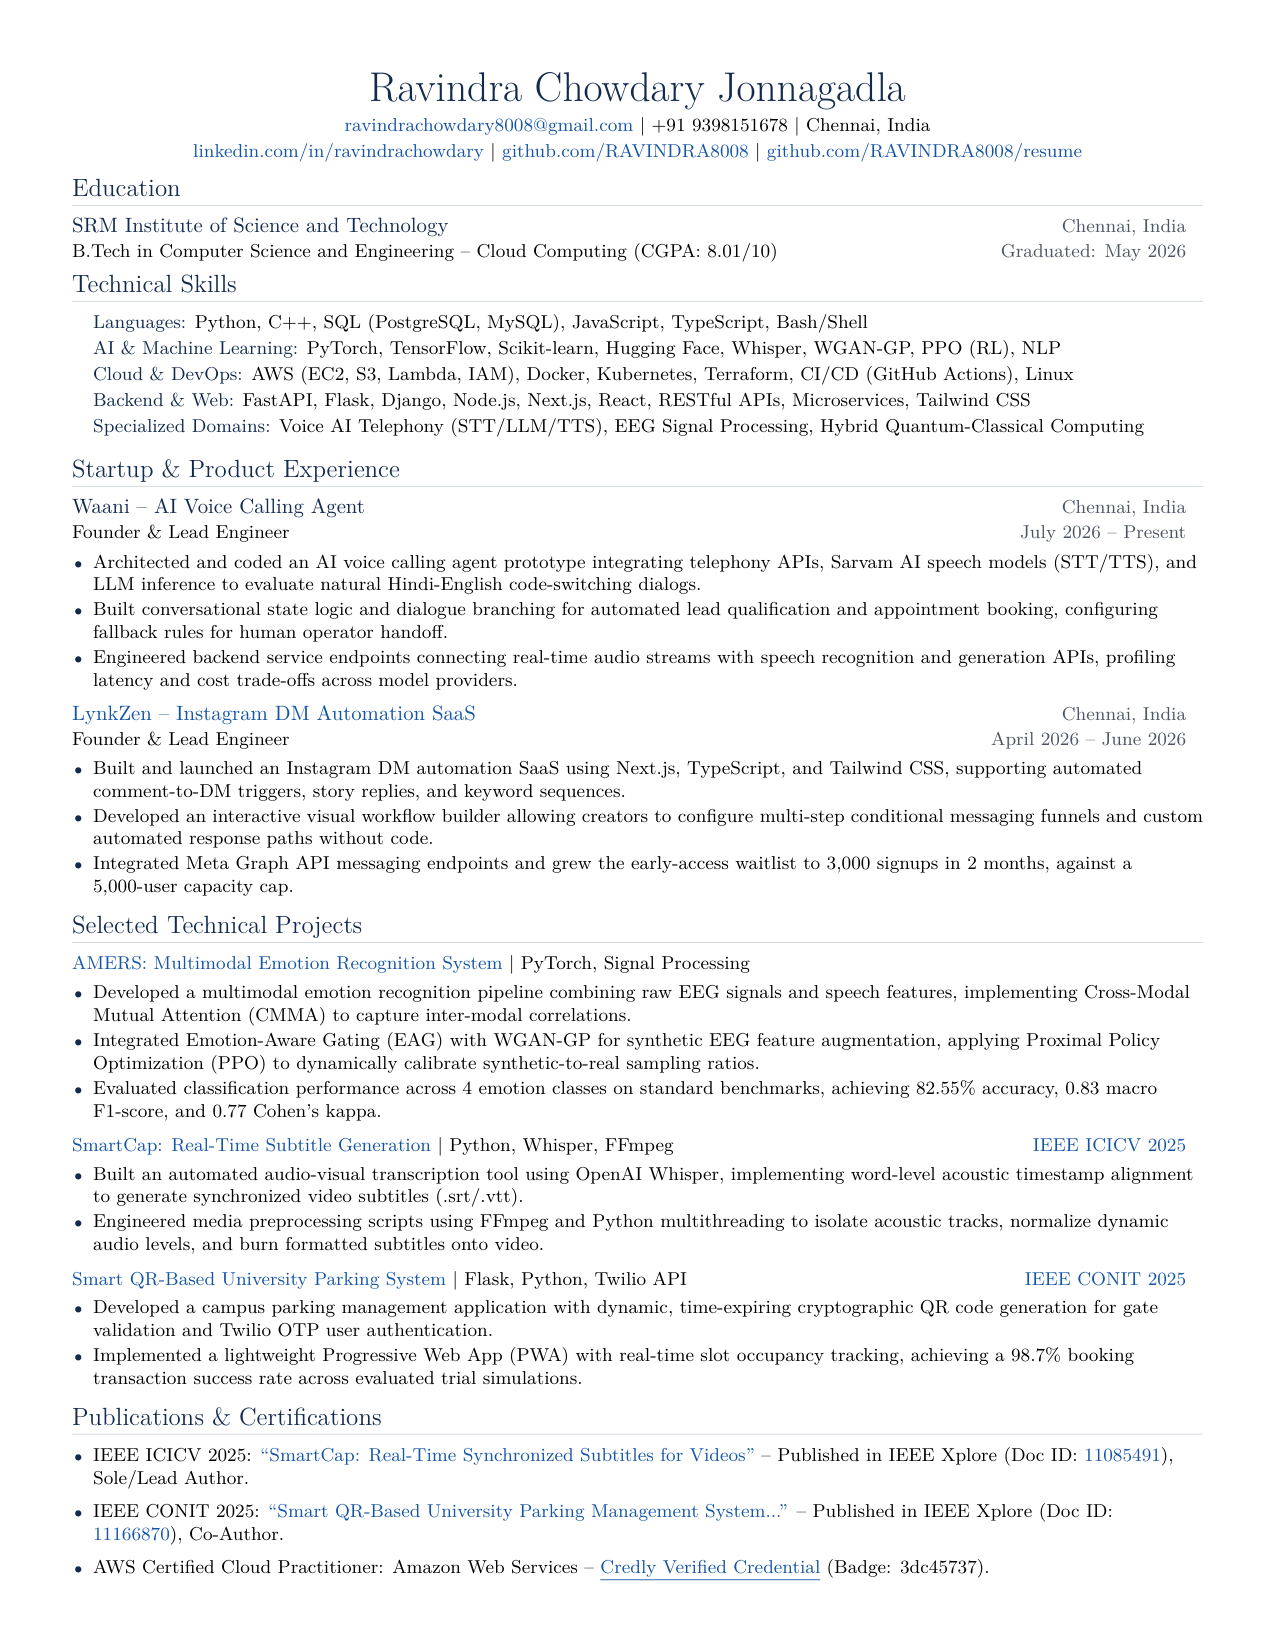
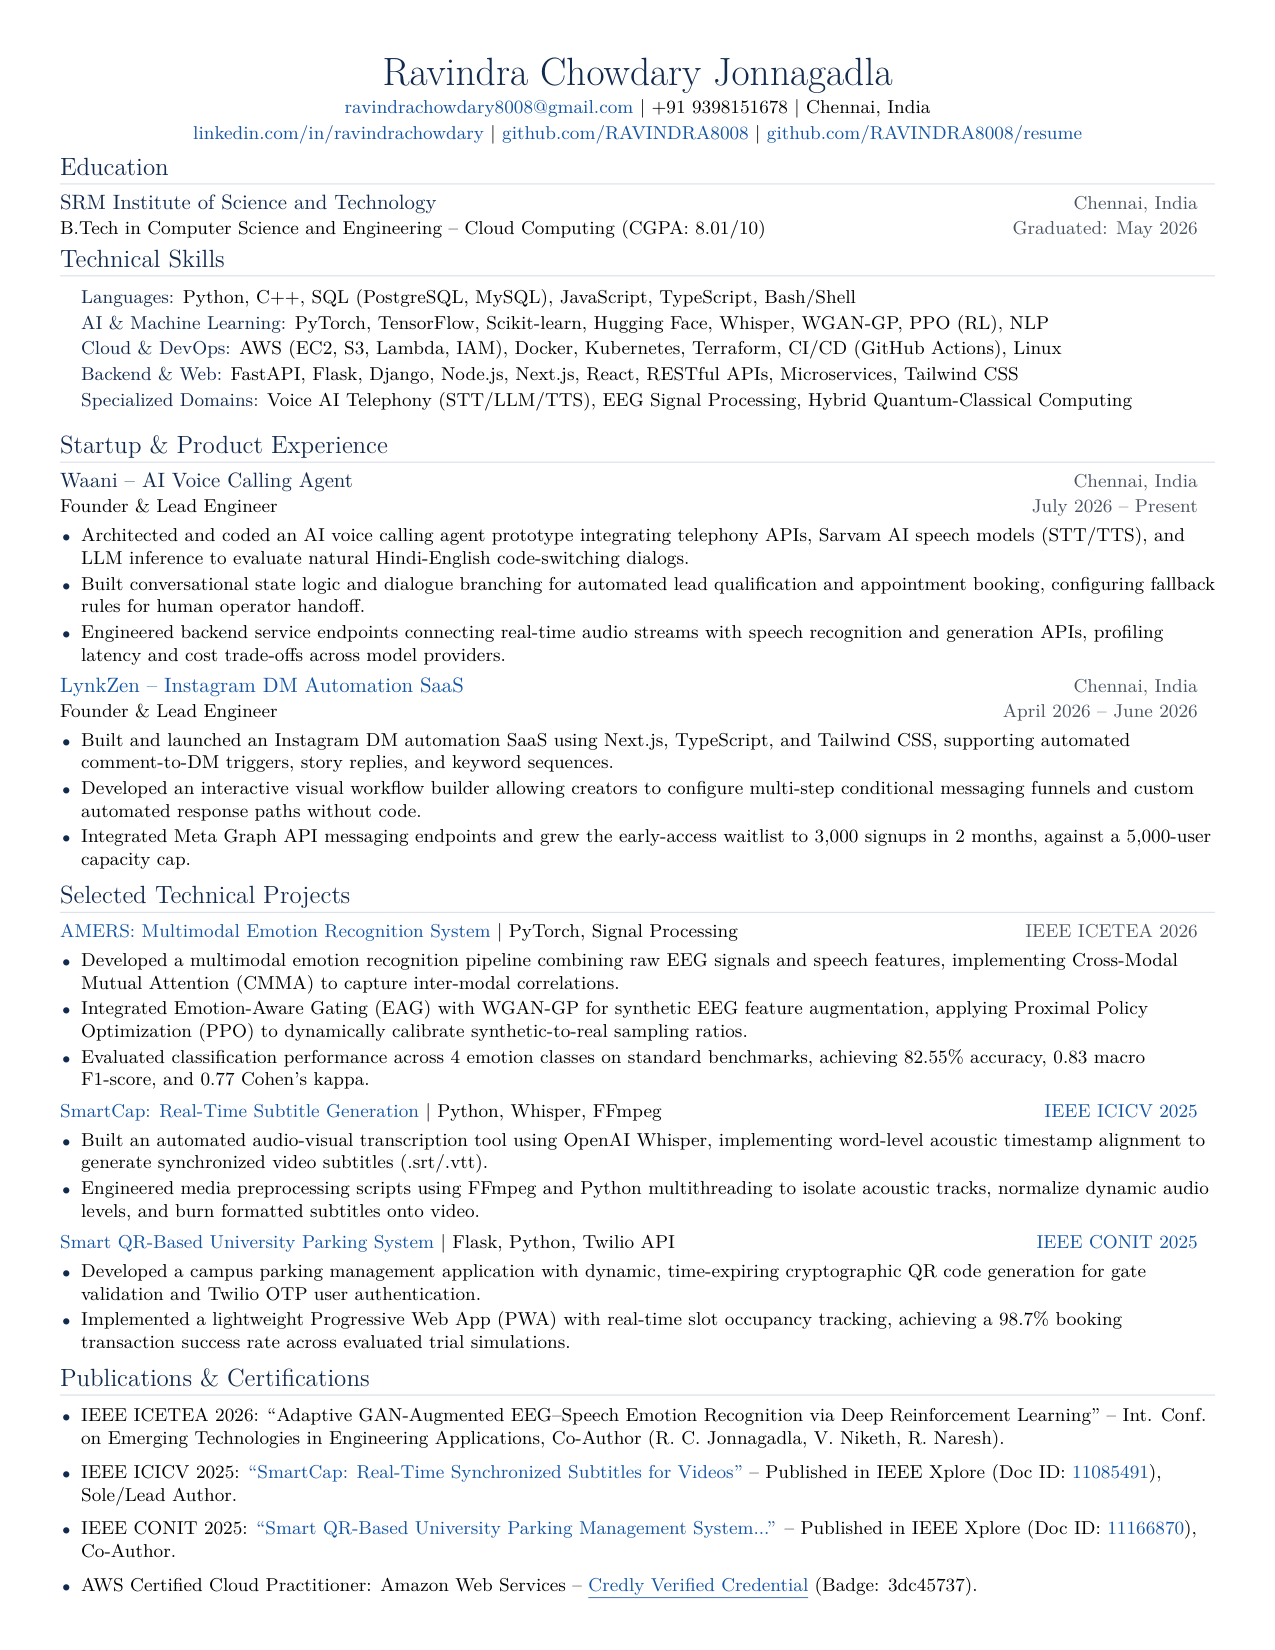
Add IEEE ICETEA 2026 publication for AMERS research

Changed region(s): [[0.0306, 0.0927, 0.9482, 0.9891], [0.1529, 0.0309, 0.8565, 0.0927], [0.7953, 0.1236, 0.9482, 0.1545]]

diff --git a/resume.tex b/resume.tex
@@ -6,7 +6,7 @@
 
 \documentclass[letterpaper,10pt]{article}
 
-\usepackage[margin=0.48in]{geometry}
+\usepackage[margin=0.40in, top=0.38in, bottom=0.36in]{geometry}
 \usepackage{titlesec}
 \usepackage{enumitem}
 \usepackage[dvipsnames]{xcolor}
@@ -41,33 +41,33 @@
 
 % Section Titles with Sleek Accents
 \titleformat{\section}{
-  \vspace{-6pt}\color{primary}\raggedright\large\bfseries
+  \vspace{-7pt}\color{primary}\raggedright\large\bfseries
 }{}{0em}{}[\color{rulecolor}\titlerule \vspace{-4pt}]
 
 % Custom commands for bulleted lists and subheadings
 \newcommand{\resumeItem}[1]{
-  \item\small{{#1 \vspace{-1.2pt}}}
+  \item\small{{#1 \vspace{-1.5pt}}}
 }
 
 \newcommand{\resumeSubheading}[4]{
-  \vspace{-1.5pt}\item
+  \vspace{-2.5pt}\item
     \begin{tabular*}{0.985\textwidth}[t]{l@{\extracolsep{\fill}}r}
       \textbf{\color{primary}#1} & \small\color{secondary}#2 \\
       \textit{\small#3} & \small\color{secondary}#4 \\
-    \end{tabular*}\vspace{-3.5pt}
+    \end{tabular*}\vspace{-4pt}
 }
 
 \newcommand{\resumeProjectHeading}[2]{
-    \vspace{-1.5pt}\item
+    \vspace{-2.5pt}\item
     \begin{tabular*}{0.985\textwidth}{l@{\extracolsep{\fill}}r}
       \small#1 & \small\color{secondary}#2 \\
-    \end{tabular*}\vspace{-3.5pt}
+    \end{tabular*}\vspace{-4pt}
 }
 
 \newcommand{\resumeSubHeadingListStart}{\begin{itemize}[leftmargin=0.0in, label={}]}
-\newcommand{\resumeSubHeadingListEnd}{\end{itemize}\vspace{-2pt}}
+\newcommand{\resumeSubHeadingListEnd}{\end{itemize}\vspace{-3pt}}
 \newcommand{\resumeItemListStart}{\begin{itemize}[leftmargin=0.14in, label={\textcolor{primary}{\scriptsize$\bullet$}}]}
-\newcommand{\resumeItemListEnd}{\end{itemize}\vspace{-2pt}}
+\newcommand{\resumeItemListEnd}{\end{itemize}\vspace{-3pt}}
 
 %-------------------------------------------
 %%%%%%  RESUME STARTS HERE  %%%%%%%%%%%%%%%%%%%%%%%%%%%%
@@ -76,7 +76,7 @@
 
 %----------HEADER----------
 \begin{center}
-    {\fontsize{20}{23}\selectfont \textbf{\color{primary}Ravindra Chowdary Jonnagadla}} \\ \vspace{3.5pt}
+    {\fontsize{19}{22}\selectfont \textbf{\color{primary}Ravindra Chowdary Jonnagadla}} \\ \vspace{2.5pt}
     \small
     \href{mailto:ravindrachowdary8008@gmail.com}{ravindrachowdary8008@gmail.com} $|$ 
     +91 9398151678 $|$ 
@@ -85,7 +85,7 @@
     \href{https://github.com/RAVINDRA8008}{github.com/RAVINDRA8008} $|$ 
     \href{https://github.com/RAVINDRA8008/resume}{github.com/RAVINDRA8008/resume}
 \end{center}
-\vspace{-9pt}
+\vspace{-11pt}
 
 %-----------EDUCATION-----------
 \section{Education}
@@ -139,7 +139,7 @@
   \resumeSubHeadingListStart
 
     \resumeProjectHeading
-      {\href{https://github.com/RAVINDRA8008}{\textbf{AMERS: Multimodal Emotion Recognition System}} $|$ \emph{PyTorch, Signal Processing}}{}
+      {\href{https://github.com/RAVINDRA8008}{\textbf{AMERS: Multimodal Emotion Recognition System}} $|$ \emph{PyTorch, Signal Processing}}{IEEE ICETEA 2026}
       \resumeItemListStart
         \resumeItem{Developed a multimodal emotion recognition pipeline combining raw EEG signals and speech features, implementing Cross-Modal Mutual Attention (CMMA) to capture inter-modal correlations.}
         \resumeItem{Integrated Emotion-Aware Gating (EAG) with WGAN-GP for synthetic EEG feature augmentation, applying Proximal Policy Optimization (PPO) to dynamically calibrate synthetic-to-real sampling ratios.}
@@ -166,6 +166,7 @@
 %-----------PUBLICATIONS & CERTIFICATIONS-----------
 \section{Publications \& Certifications}
   \resumeItemListStart
+    \resumeItem{\textbf{IEEE ICETEA 2026:} \emph{``Adaptive GAN-Augmented EEG--Speech Emotion Recognition via Deep Reinforcement Learning''} -- Int. Conf. on Emerging Technologies in Engineering Applications, Co-Author (R. C. Jonnagadla, V. Niketh, R. Naresh).}
     \resumeItem{\textbf{IEEE ICICV 2025:} \href{https://ieeexplore.ieee.org/document/11085491}{\emph{``SmartCap: Real-Time Synchronized Subtitles for Videos''}} -- Published in IEEE Xplore (Doc ID: \href{https://ieeexplore.ieee.org/document/11085491}{11085491}), Sole/Lead Author.}
     \resumeItem{\textbf{IEEE CONIT 2025:} \href{https://ieeexplore.ieee.org/document/11166870}{\emph{``Smart QR-Based University Parking Management System...''}} -- Published in IEEE Xplore (Doc ID: \href{https://ieeexplore.ieee.org/document/11166870}{11166870}), Co-Author.}
     \resumeItem{\textbf{AWS Certified Cloud Practitioner:} Amazon Web Services -- \href{https://www.credly.com/badges/3dc45737-a240-4ebd-865c-ac932ab9d71c/public_url}{\underline{Credly Verified Credential}} (Badge: 3dc45737).}
